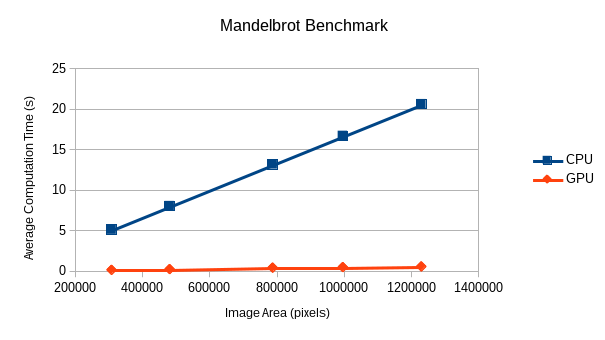
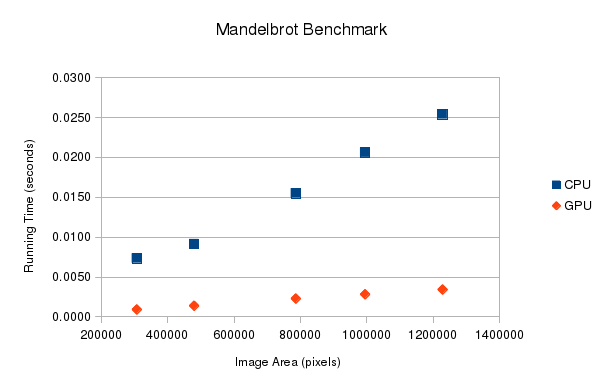
update benchmark results in report

diff --git a/docs/test-plan.md b/docs/test-plan.md
@@ -117,34 +117,34 @@ the number of iterations til convergence for that point on the complex plane.
 
 We benchmarked the performance of vector code on the CPU and GPU using the
 mandelbrot example shown earlier. For the GPU, we used the same code as above.
-For the CPU, we used similar code, except the pfor statement was replaced
-with a for statement, and the inner `mandelbrot` function was no longer a
-device function. By measuring how long it took to complete the computation
+For the CPU, we used a similar program written in C.
+
+By measuring how long it took to complete the computation
 for increasing image sizes using the `time` builtin function, we were able to
 compare how CPU and GPU code scaled with increasing workloads.
 
-The benchmarks were performed on a desktop computer with a 2.5 GHz AMD Phenom
-processor and a NVIDIA GeForce 8400 GS GPU. The results are as follows
+The benchmarks were performed on Amazon EC2 G2 instance, with a Nvidia GK104GL
+GPU and a 2.60GHz Intel Xeon CPU.
 
 #### CPU Results
 
 | Width | Height | Time 1 | Time 2 | Time 3 |
 |:------|:-------|:-------|:-------|:-------|
-| 640   | 480    | 5.16   | 5.16   | 5.16   |
-| 800   | 600    | 8.06   | 8.07   | 8.07   |
-| 1024  | 768    | 13.22  | 13.22  | 13.22  |
-| 1152  | 864    | 16.72  | 16.73  | 16.74  |
-| 1280  | 960    | 20.64  | 20.66  | 20.65  |
+| 640   | 480    | 0.0094 | 0.0063 | 0.0063 |
+| 800   | 600    | 0.0092 | 0.0091 | 0.0091 |
+| 1024  | 768    | 0.0155 | 0.0157 | 0.0153 |
+| 1152  | 864    | 0.0206 | 0.0208 | 0.0204 |
+| 1280  | 960    | 0.0253 | 0.0252 | 0.0257 |
 
 #### GPU Results
 
 | Width | Height | Time 1 | Time 2 | Time 3 |
 |:------|:-------|:-------|:-------|:-------|
-| 640   | 480    | 0.19   | 0.19   | 0.19   |
-| 800   | 600    | 0.28   | 0.28   | 0.28   |
-| 1024  | 768    | 0.47   | 0.46   | 0.46   |
-| 1152  | 864    | 0.53   | 0.53   | 0.53   |
-| 1280  | 960    | 0.61   | 0.61   | 0.61   |
+| 640   | 480    | 0.001  | 0.0009 | 0.0009 |
+| 800   | 600    | 0.0014 | 0.0014 | 0.0014 |
+| 1024  | 768    | 0.0023 | 0.0023 | 0.0023 |
+| 1152  | 864    | 0.0029 | 0.0028 | 0.0028 |
+| 1280  | 960    | 0.0034 | 0.0034 | 0.0035 |
 
 ![Benchmark Results](docs/benchmark-result-plot.png)
 
